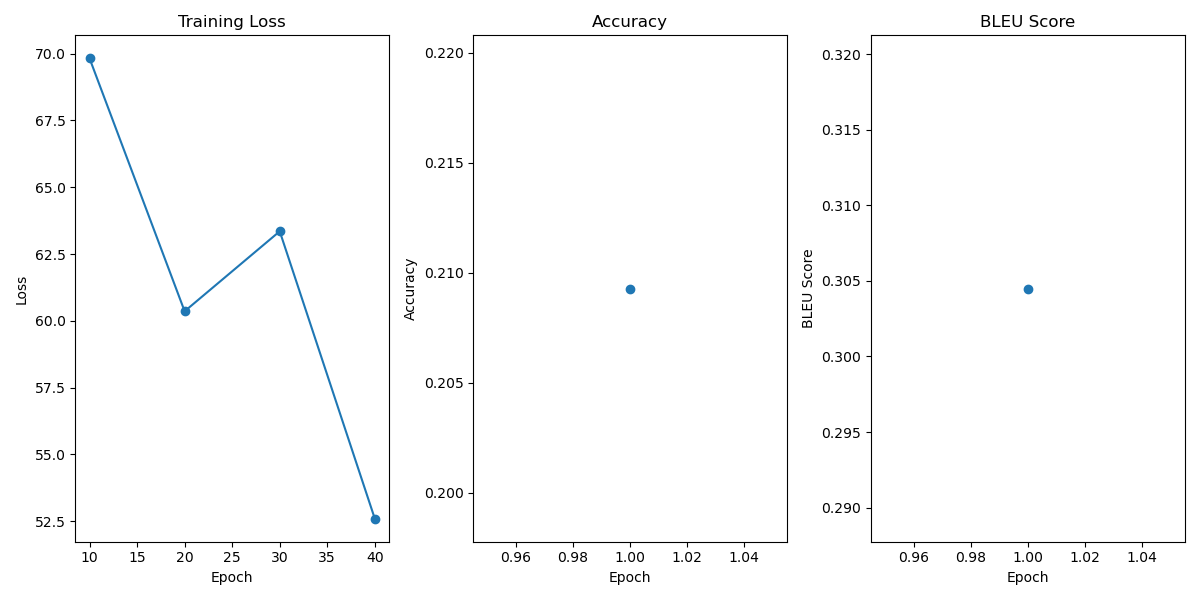
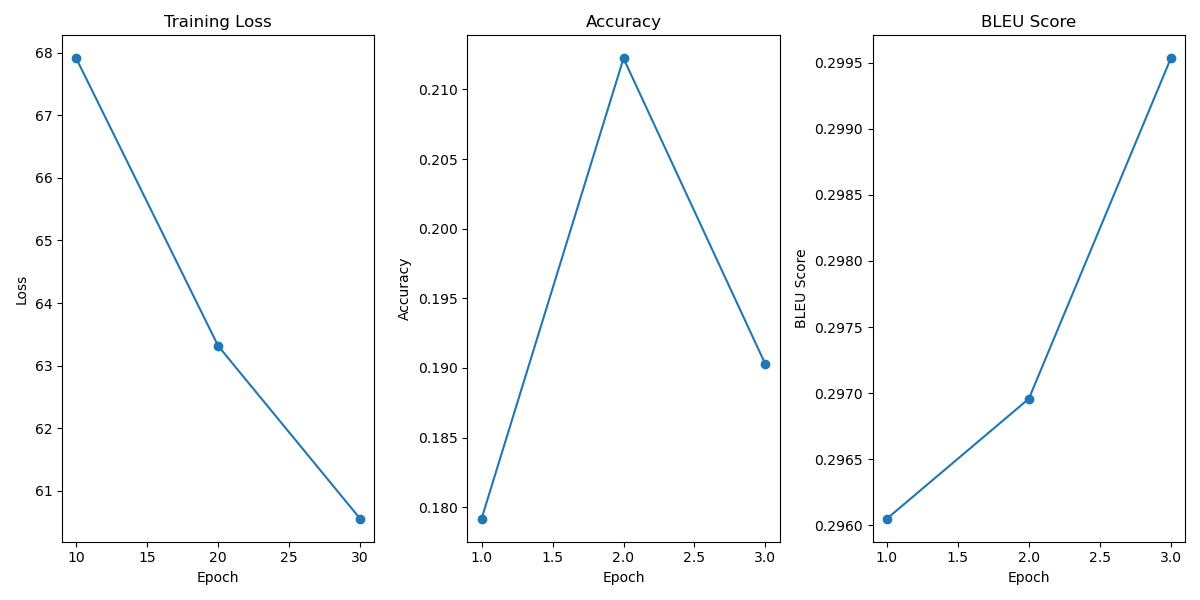
3 round train

diff --git a/src/training.py b/src/training.py
@@ -44,8 +44,8 @@ def train_model(save_path='../models', log_path="../logs/train_logs.npy"):
     training_args = TrainingArguments(
         output_dir='../models',
         num_train_epochs=3,
-        per_device_train_batch_size=4,
-        per_device_eval_batch_size=8,
+        per_device_train_batch_size=16,
+        per_device_eval_batch_size=64,
         warmup_steps=500,
         weight_decay=0.01,
         logging_dir='../logs',
